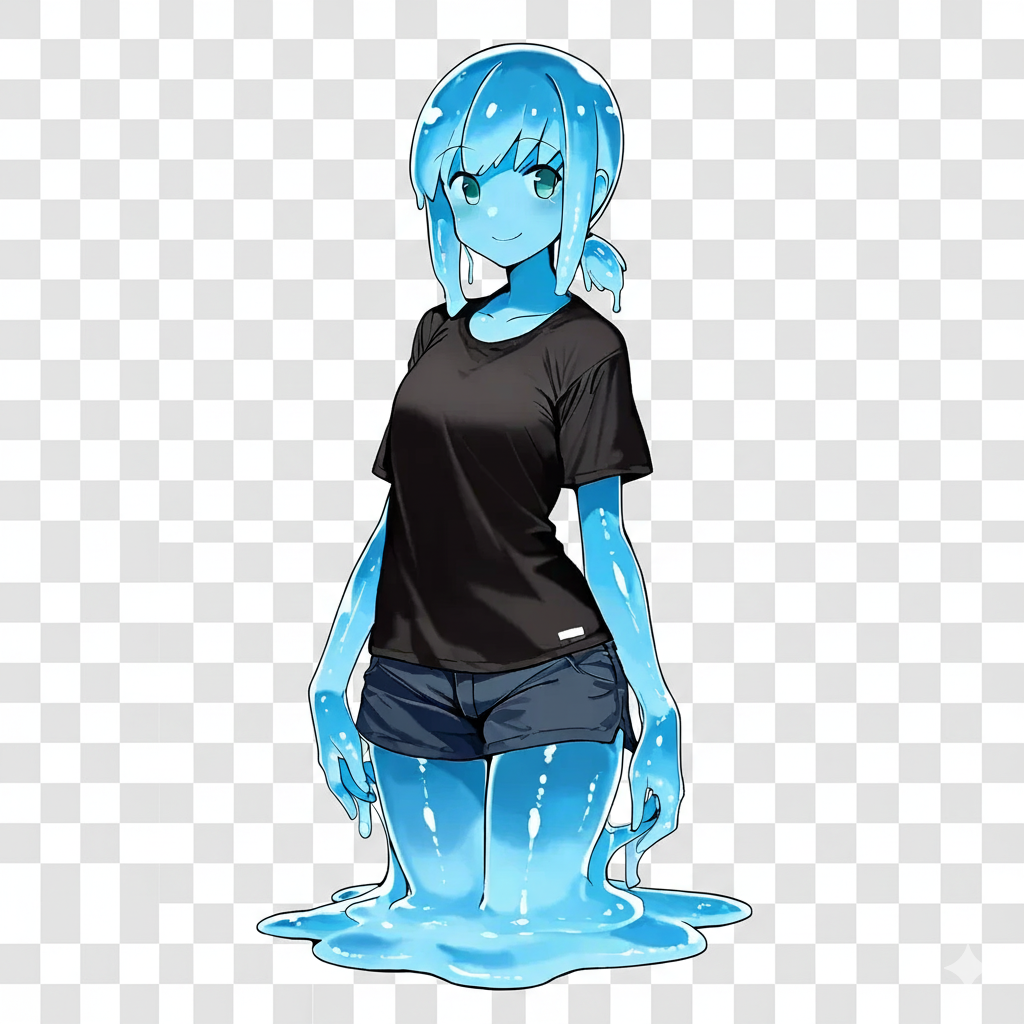
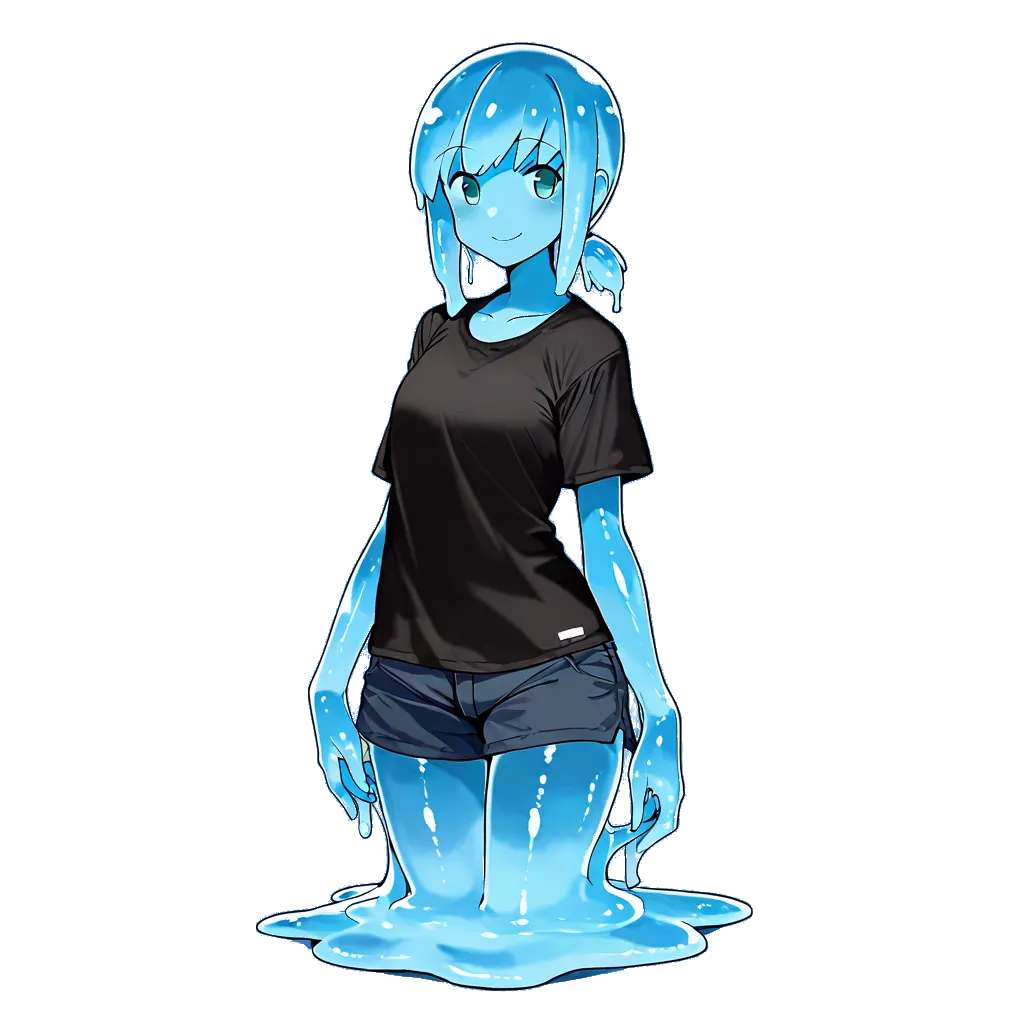
fix transparent image, refactor ui display

diff --git a/frontend/src/App.css b/frontend/src/App.css
@@ -31,7 +31,7 @@
 }
 
 .chat-content {
-  @apply mx-auto flex w-full max-w-4xl flex-col gap-6 px-4 py-10;
+  @apply mx-auto flex w-full max-w-4xl flex-col gap-5 px-4 py-8;
 }
 
 .system-prompt-card {
@@ -43,27 +43,19 @@
 }
 
 .welcome-card {
-  @apply rounded-3xl border border-blue-500/25 bg-blue-950/60 p-10 text-center shadow-xl shadow-blue-950/50;
-}
-
-.welcome-banner {
-  @apply rounded-3xl border border-sky-500/40 bg-gradient-to-r from-sky-500/20 via-indigo-500/20 to-blue-500/20 p-8 text-left text-blue-50 md:text-center;
+  @apply rounded-3xl border border-blue-500/25 bg-blue-950/60 px-6 py-6 text-center shadow-xl shadow-blue-950/50;
 }
 
 .welcome-title {
-  @apply text-3xl font-semibold;
+  @apply text-3xl font-semibold text-blue-50;
 }
 
-.welcome-text {
-  @apply mt-3 text-base text-blue-100/90;
-}
-
-.welcome-media {
+.chat-context {
   @apply mt-6 flex justify-center;
 }
 
 .welcome-image {
-  @apply w-full max-w-sm rounded-3xl border border-blue-500/30 bg-blue-950/40 p-4 shadow-lg shadow-blue-950/40;
+  @apply w-full max-w-xs rounded-3xl shadow-lg shadow-blue-950/40 md:max-w-sm;
 }
 
 .message-thread {
@@ -110,8 +102,16 @@
   @apply flex h-full flex-col;
 }
 
+.sidebar-topbar {
+  @apply flex items-center justify-between gap-3 md:justify-start;
+}
+
+.sidebar-settings-trigger {
+  @apply inline-flex h-10 w-10 items-center justify-center rounded-full border border-blue-500/30 bg-blue-950/70 text-lg text-blue-100 transition hover:border-sky-400/60 hover:text-sky-100;
+}
+
 .sidebar-header {
-  @apply flex items-center justify-between md:block;
+  @apply mt-6 space-y-1;
 }
 
 .sidebar-title {
@@ -170,21 +170,7 @@
   @apply flex h-7 w-7 items-center justify-center rounded-full border border-blue-500/20 text-blue-300 transition hover:border-rose-400/60 hover:bg-rose-500/20 hover:text-rose-100 focus:outline-none focus:ring-2 focus:ring-rose-400/50;
 }
 
-.sidebar-settings {
-  @apply mt-6 rounded-3xl border border-blue-500/25 bg-blue-950/70 p-4 text-xs text-blue-200 shadow-lg shadow-blue-950/50;
-}
-
-.sidebar-settings-header {
-  @apply flex items-center justify-between;
-}
-
-.sidebar-settings-title {
-  @apply text-sm font-semibold text-blue-100;
-}
-
-.sidebar-settings-button {
-  @apply mt-4 flex w-full items-center justify-center gap-2 rounded-2xl border border-blue-500/30 bg-transparent px-3 py-2 text-sm font-medium text-blue-200 transition hover:border-sky-400/60 hover:text-sky-100;
-}
+/* legacy sidebar settings styles removed */
 
 .header-bar {
   @apply sticky top-0 z-10 border-b border-blue-500/25 bg-blue-950/80 backdrop-blur;
@@ -250,8 +236,8 @@
   @apply mt-1 w-full bg-transparent text-sm text-blue-100 outline-none;
 }
 
-.composer-actions {
-  @apply flex flex-col gap-3 sm:flex-row sm:items-center sm:justify-between;
+.composer-footer {
+  @apply flex flex-col gap-3 sm:flex-row sm:items-end sm:justify-between;
 }
 
 .composer-send {

diff --git a/frontend/src/components/Composer.tsx b/frontend/src/components/Composer.tsx
@@ -33,7 +33,7 @@ const Composer = ({
 
   return (
     <footer className="border-t border-blue-500/25 bg-blue-950/80">
-      <div className="mx-auto w-full max-w-4xl px-4 py-6">
+      <div className="mx-auto w-full max-w-4xl px-4 py-5">
         <div className="composer-card">
           {Boolean(modelsError) && (
             <div className="rounded-2xl border border-red-500/40 bg-red-500/10 px-3 py-2 text-sm text-red-200">
@@ -56,37 +56,25 @@ const Composer = ({
             disabled={!isReady || isSending}
           />
 
-          <div className="composer-actions">
-            <label className="composer-system">
-              <span className="composer-system-label">System prompt</span>
-              <input
-                type="text"
-                value={systemPromptInput}
-                onChange={(event) => onSystemPromptChange(event.target.value)}
-                placeholder="Customize the assistant's persona"
-                className="composer-system-input"
-              />
-            </label>
-            <div className="flex justify-end">
-              <button
-                type="button"
-                onClick={onSend}
-                disabled={disableSend}
-                className={clsx(
-                  "composer-send",
-                  disableSend ? "composer-send--disabled" : "composer-send--active"
-                )}
-              >
-                {isSending ? (
-                  <>
-                    <LoadingIndicator />
-                    Sending…
-                  </>
-                ) : (
-                  "Send"
-                )}
-              </button>
-            </div>
+          <div className="composer-footer">
+            <button
+              type="button"
+              onClick={onSend}
+              disabled={disableSend}
+              className={clsx(
+                "composer-send",
+                disableSend ? "composer-send--disabled" : "composer-send--active"
+              )}
+            >
+              {isSending ? (
+                <>
+                  <LoadingIndicator />
+                  Sending…
+                </>
+              ) : (
+                "Send"
+              )}
+            </button>
           </div>
         </div>
       </div>

diff --git a/frontend/src/components/Sidebar.tsx b/frontend/src/components/Sidebar.tsx
@@ -35,14 +35,24 @@ const Sidebar = ({
       )}
     >
       <div className="sidebar-content">
-        <div className="sidebar-header">
-          <div>
-            <h2 className="sidebar-title">GoopUI</h2>
-            <p className="sidebar-subtitle">Chat with local Ollama</p>
-          </div>
+        <div className="sidebar-topbar">
+          <button
+            type="button"
+            className="sidebar-settings-trigger"
+            onClick={onOpenSettings}
+            aria-label="Open settings"
+            title="Open settings"
+          >
+            ⚙
+          </button>
           <button type="button" className="sidebar-dismiss" onClick={onCloseHistory}>
             Close
           </button>
+        </div>
+
+        <div className="sidebar-header">
+          <h2 className="sidebar-title">GoopUI</h2>
+          <p className="sidebar-subtitle">Chat with local Ollama</p>
         </div>
 
         <button type="button" onClick={onNewChat} className="sidebar-button">
@@ -104,18 +114,6 @@ const Sidebar = ({
               );
             })
           )}
-        </div>
-
-        <div className="sidebar-settings">
-          <div className="sidebar-settings-header">
-            <h3 className="sidebar-settings-title">Settings</h3>
-            <span aria-hidden="true" className="text-base">
-              ⚙
-            </span>
-          </div>
-          <button type="button" className="sidebar-settings-button" onClick={onOpenSettings}>
-            Open settings
-          </button>
         </div>
       </div>
     </aside>

diff --git a/frontend/src/components/WelcomeCard.tsx b/frontend/src/components/WelcomeCard.tsx
@@ -6,14 +6,9 @@ type WelcomeCardProps = {
 
 const WelcomeCard = ({ welcomeName, showImage, imageSrc }: WelcomeCardProps) => (
   <div className="welcome-card">
-    <div className="welcome-banner">
-      <h2 className="welcome-title">Welcome {welcomeName}!</h2>
-      <p className="welcome-text">
-        Tweak your preferences in the settings modal and start a conversation when you&apos;re ready.
-      </p>
-    </div>
+    <h2 className="welcome-title">Welcome {welcomeName}!</h2>
     {showImage && (
-      <div className="welcome-media">
+      <div className="chat-context">
         <img src={imageSrc} alt="GoopUI mascot" className="welcome-image" />
       </div>
     )}

diff --git a/frontend/src/App.tsx b/frontend/src/App.tsx
@@ -11,7 +11,6 @@ import {
   submitChat,
 } from "./lib/api";
 import {
-  DEFAULT_SYSTEM_PROMPT,
   TITLE_FALLBACK,
   buildRequestMessages,
   buildTitleFromContent,
